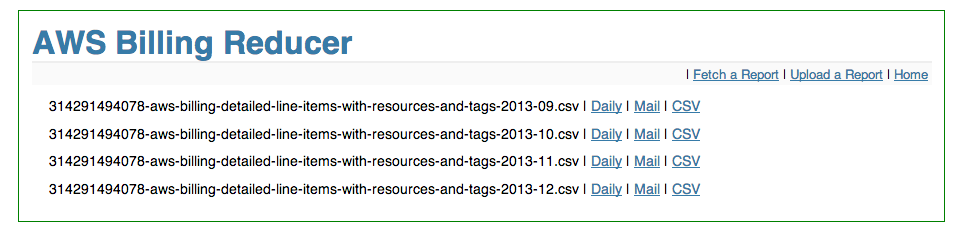
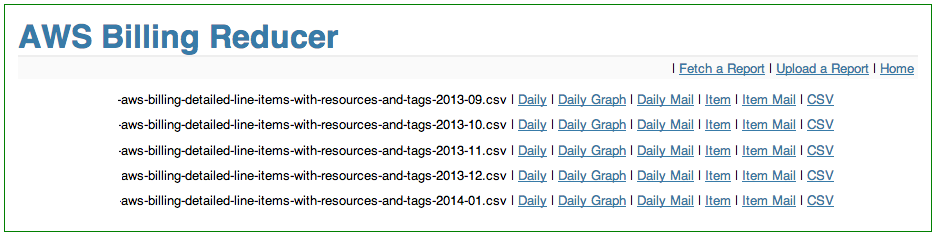
cleaned up doco and screenshots

Changed region(s): [[0.0, 0.0, 1.0, 0.9706], [0.0, 0.9706, 0.9904, 1.0]]

diff --git a/NHDH/static/tyle.css b/NHDH/static/tyle.css
@@ -29,7 +29,7 @@ table.entries td {
 .page           { margin: 2em auto; width: 35em; border: 1px solid green;
                   padding: 0.8em; background: white; width: 900px}
 .entries        { list-style: none; margin: 0; padding: 0; }
-.entries li     { margin: 0.8em 1.2em; font-size: 0.7em}
+.entries li     { margin: 0.8em 1.2em; font-size: 0.8em}
 .entries li h2  { margin-left: -1em; font-size: 0.9em}
 .add-entry      { font-size: 0.9em; border-bottom: 1px solid #ccc; }
 .add-entry dl   { font-weight: bold; }

diff --git a/README.md b/README.md
@@ -7,11 +7,12 @@ The purpose of this program is to reduce the large number of line items in a det
  - Emails the monthly summary to a list of recipients
  - processes uploaded billing zip files
  - provides a summary csv for download
+ - basic js graphing
+ - flask caching - for thoe large reports
 
 #### What we are currently working on
  - a better ui - to replace the crappy one monk-ee knocked up
  - multiple report formats
- - js graphing
  - administrative panel
  - json gui
 
@@ -34,10 +35,13 @@ The purpose of this program is to reduce the large number of line items in a det
  - address     : 'test@test.com'
  - general:
  - format           : 'standard' # we have noticed that there are different formats for the bills
+ - filter: ''
  - debug            : 'True' # bugginess to be reported
- - filter           : 'not implemented' # this will be a user based filter - currently not used
- - time_zone        : 'Australia/Brisbane' # timezone
- - version          : '1.0.0' # current build version - Don't touch please
+ - cache:
+ - timeout: '600'#the length of time you want your pages cached
+ - scheduler:
+ - hourly_interval: '4' #the interval at which the scheduler runs
+ - logfile: 'nhdh.log' # a log file mainly for scheduler actions
 
  - on the AWS side you will need to ensure that the S3 billing bucket has a policy to allow access to it and that programmatic access to billing is enabled.
 
@@ -69,7 +73,7 @@ Install the required python libraries:
 
 `sudo pip install -r requirements`
 
-### NHDH has been changed to a simple package.
+### NHDH has been changed to a flask blueprint.
 
 Run it up:
 
@@ -77,6 +81,10 @@ Run it up:
 
 Test by going to:
 <http://localhost:5000/> or <http://yourservername:5000/>
+
+To run the scheduler:
+Run
+./scheduler.py
 
 ### RHEL
 
@@ -89,9 +97,17 @@ TODO... TOOHARD
 * pip for windows is easy too <https://sites.google.com/site/pydatalog/python/pip-for-windows>
 
 ### Screenshots
-Screenshot of home screen:
+Screenshot of home view:
 
 ![ScreenShot](https://raw.github.com/monk-ee/NHDH/master/screenshots/home_screen.png)
+
+Screenshot of daily summary view:
+
+![ScreenShot](https://raw.github.com/monk-ee/NHDH/master/screenshots/daily_screen.png)
+
+Screenshot of daily graph view:
+
+![ScreenShot](https://raw.github.com/monk-ee/NHDH/master/screenshots/daily_graph.png)
 
 Screenshot of email body:
 
